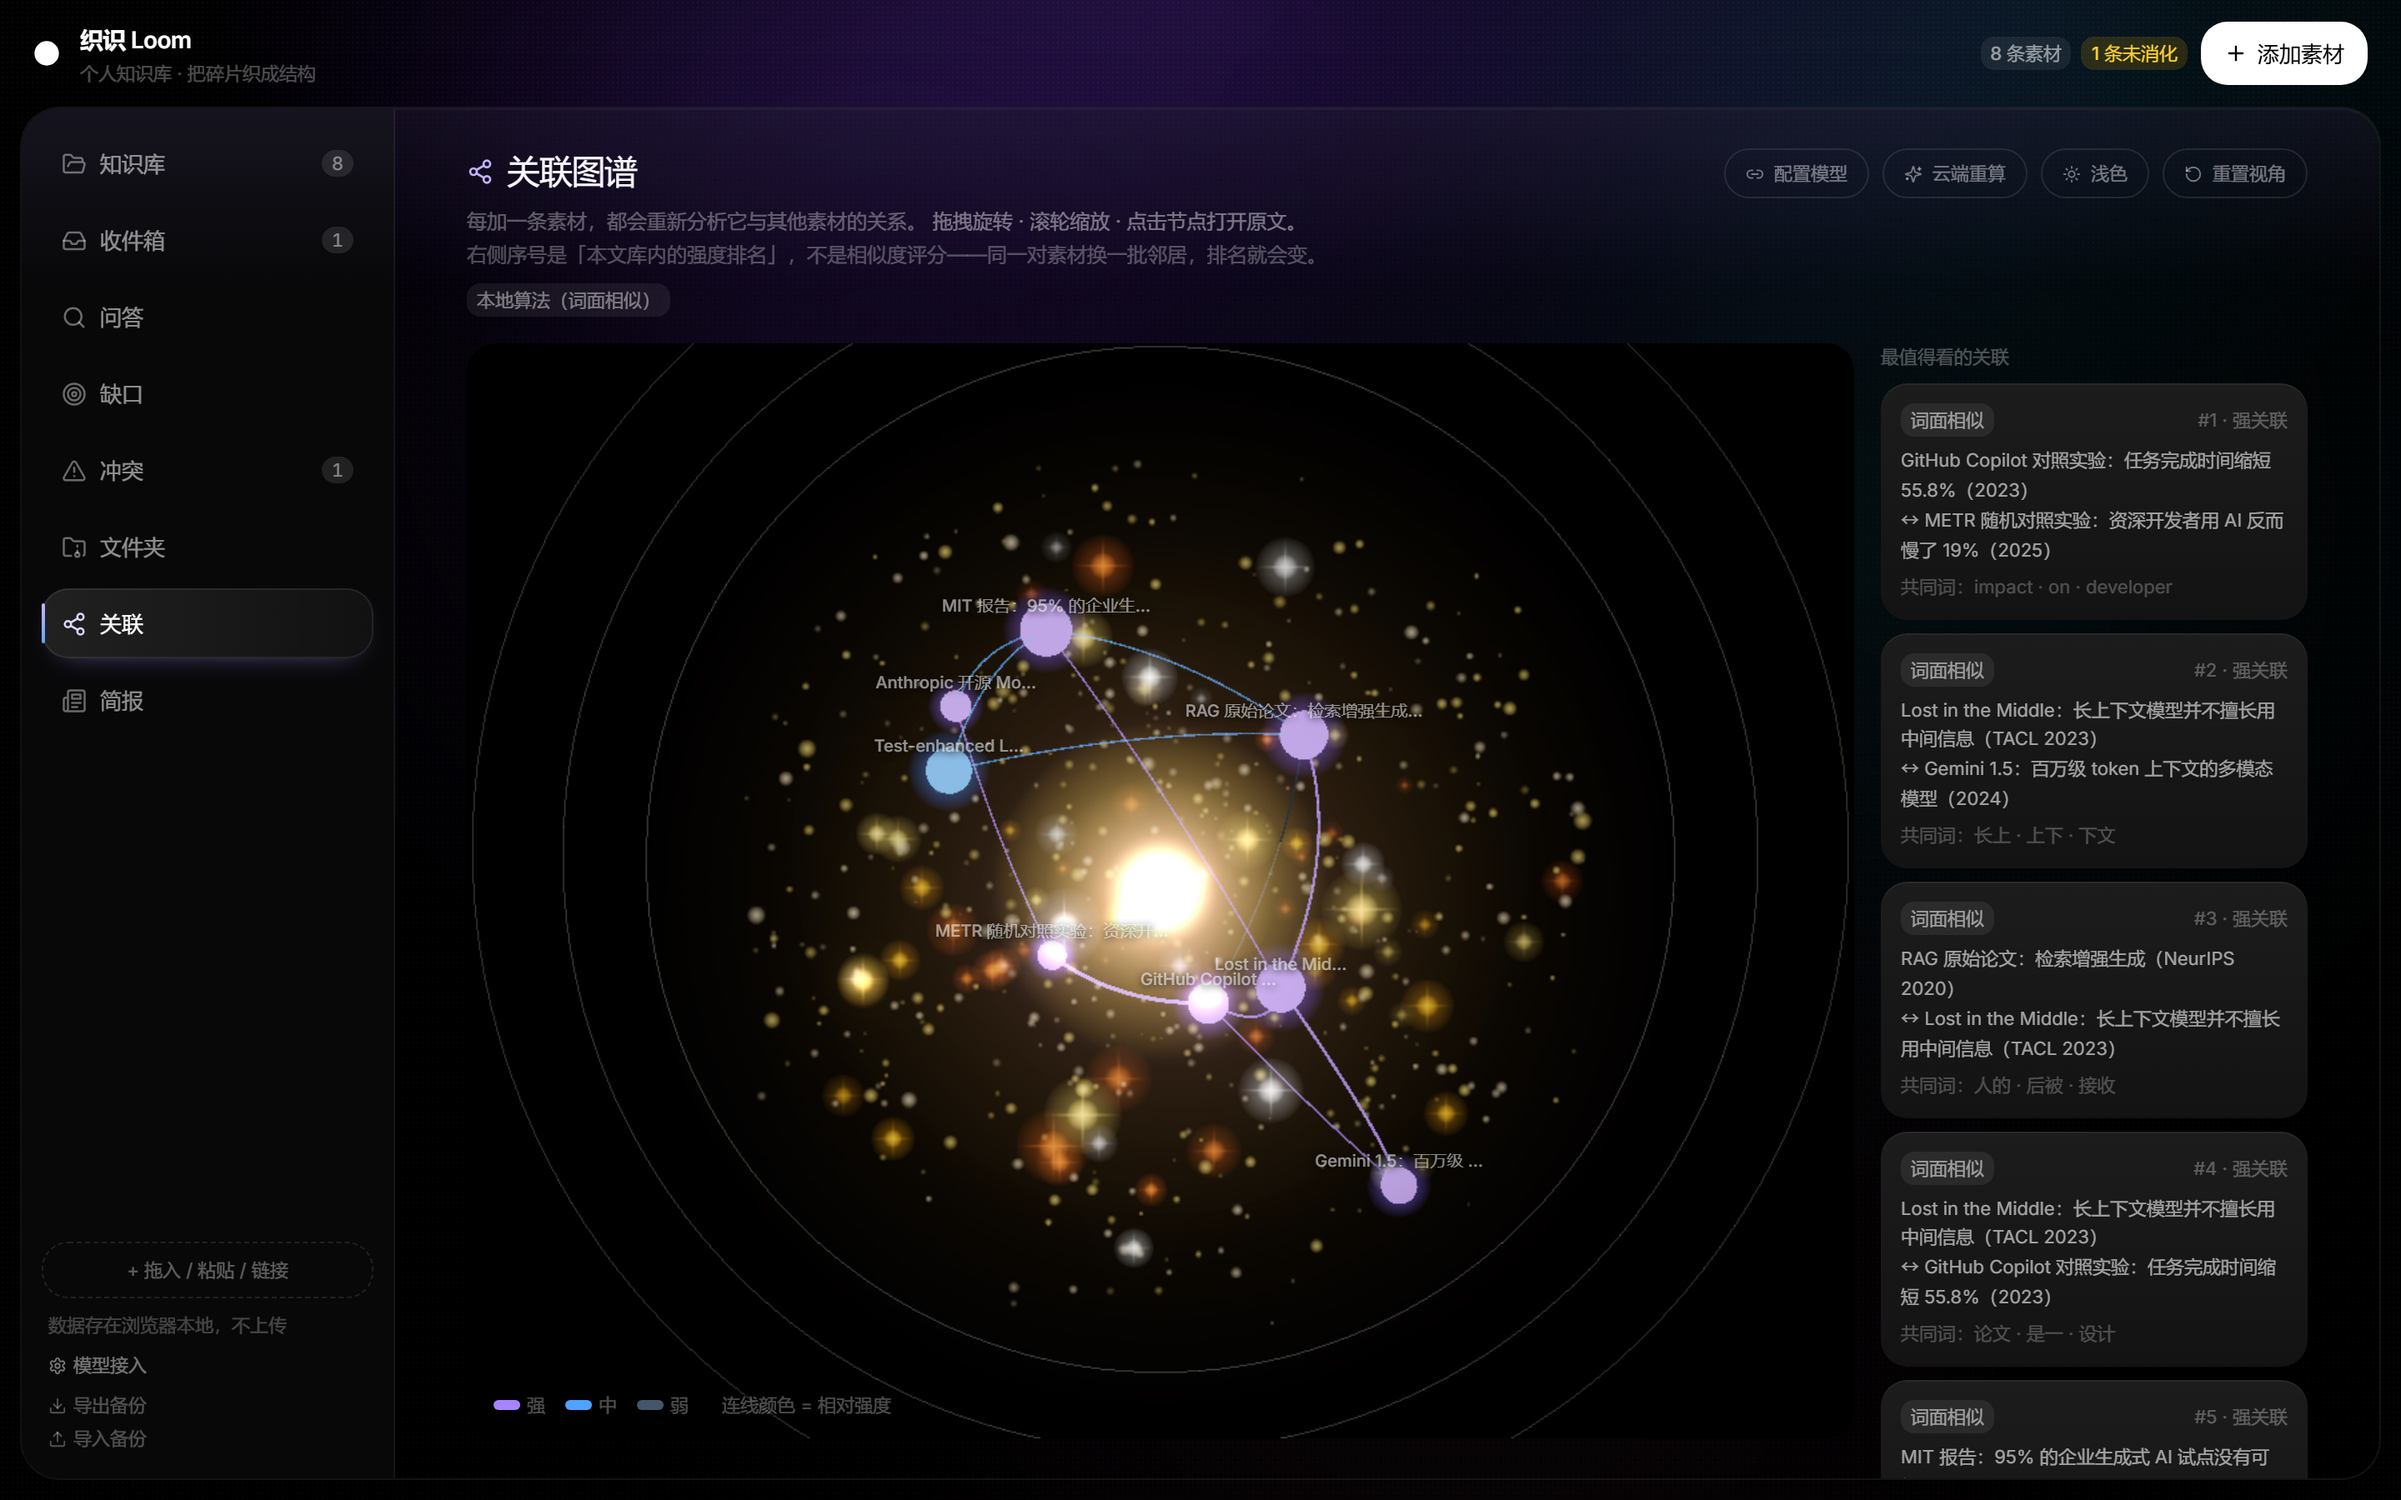
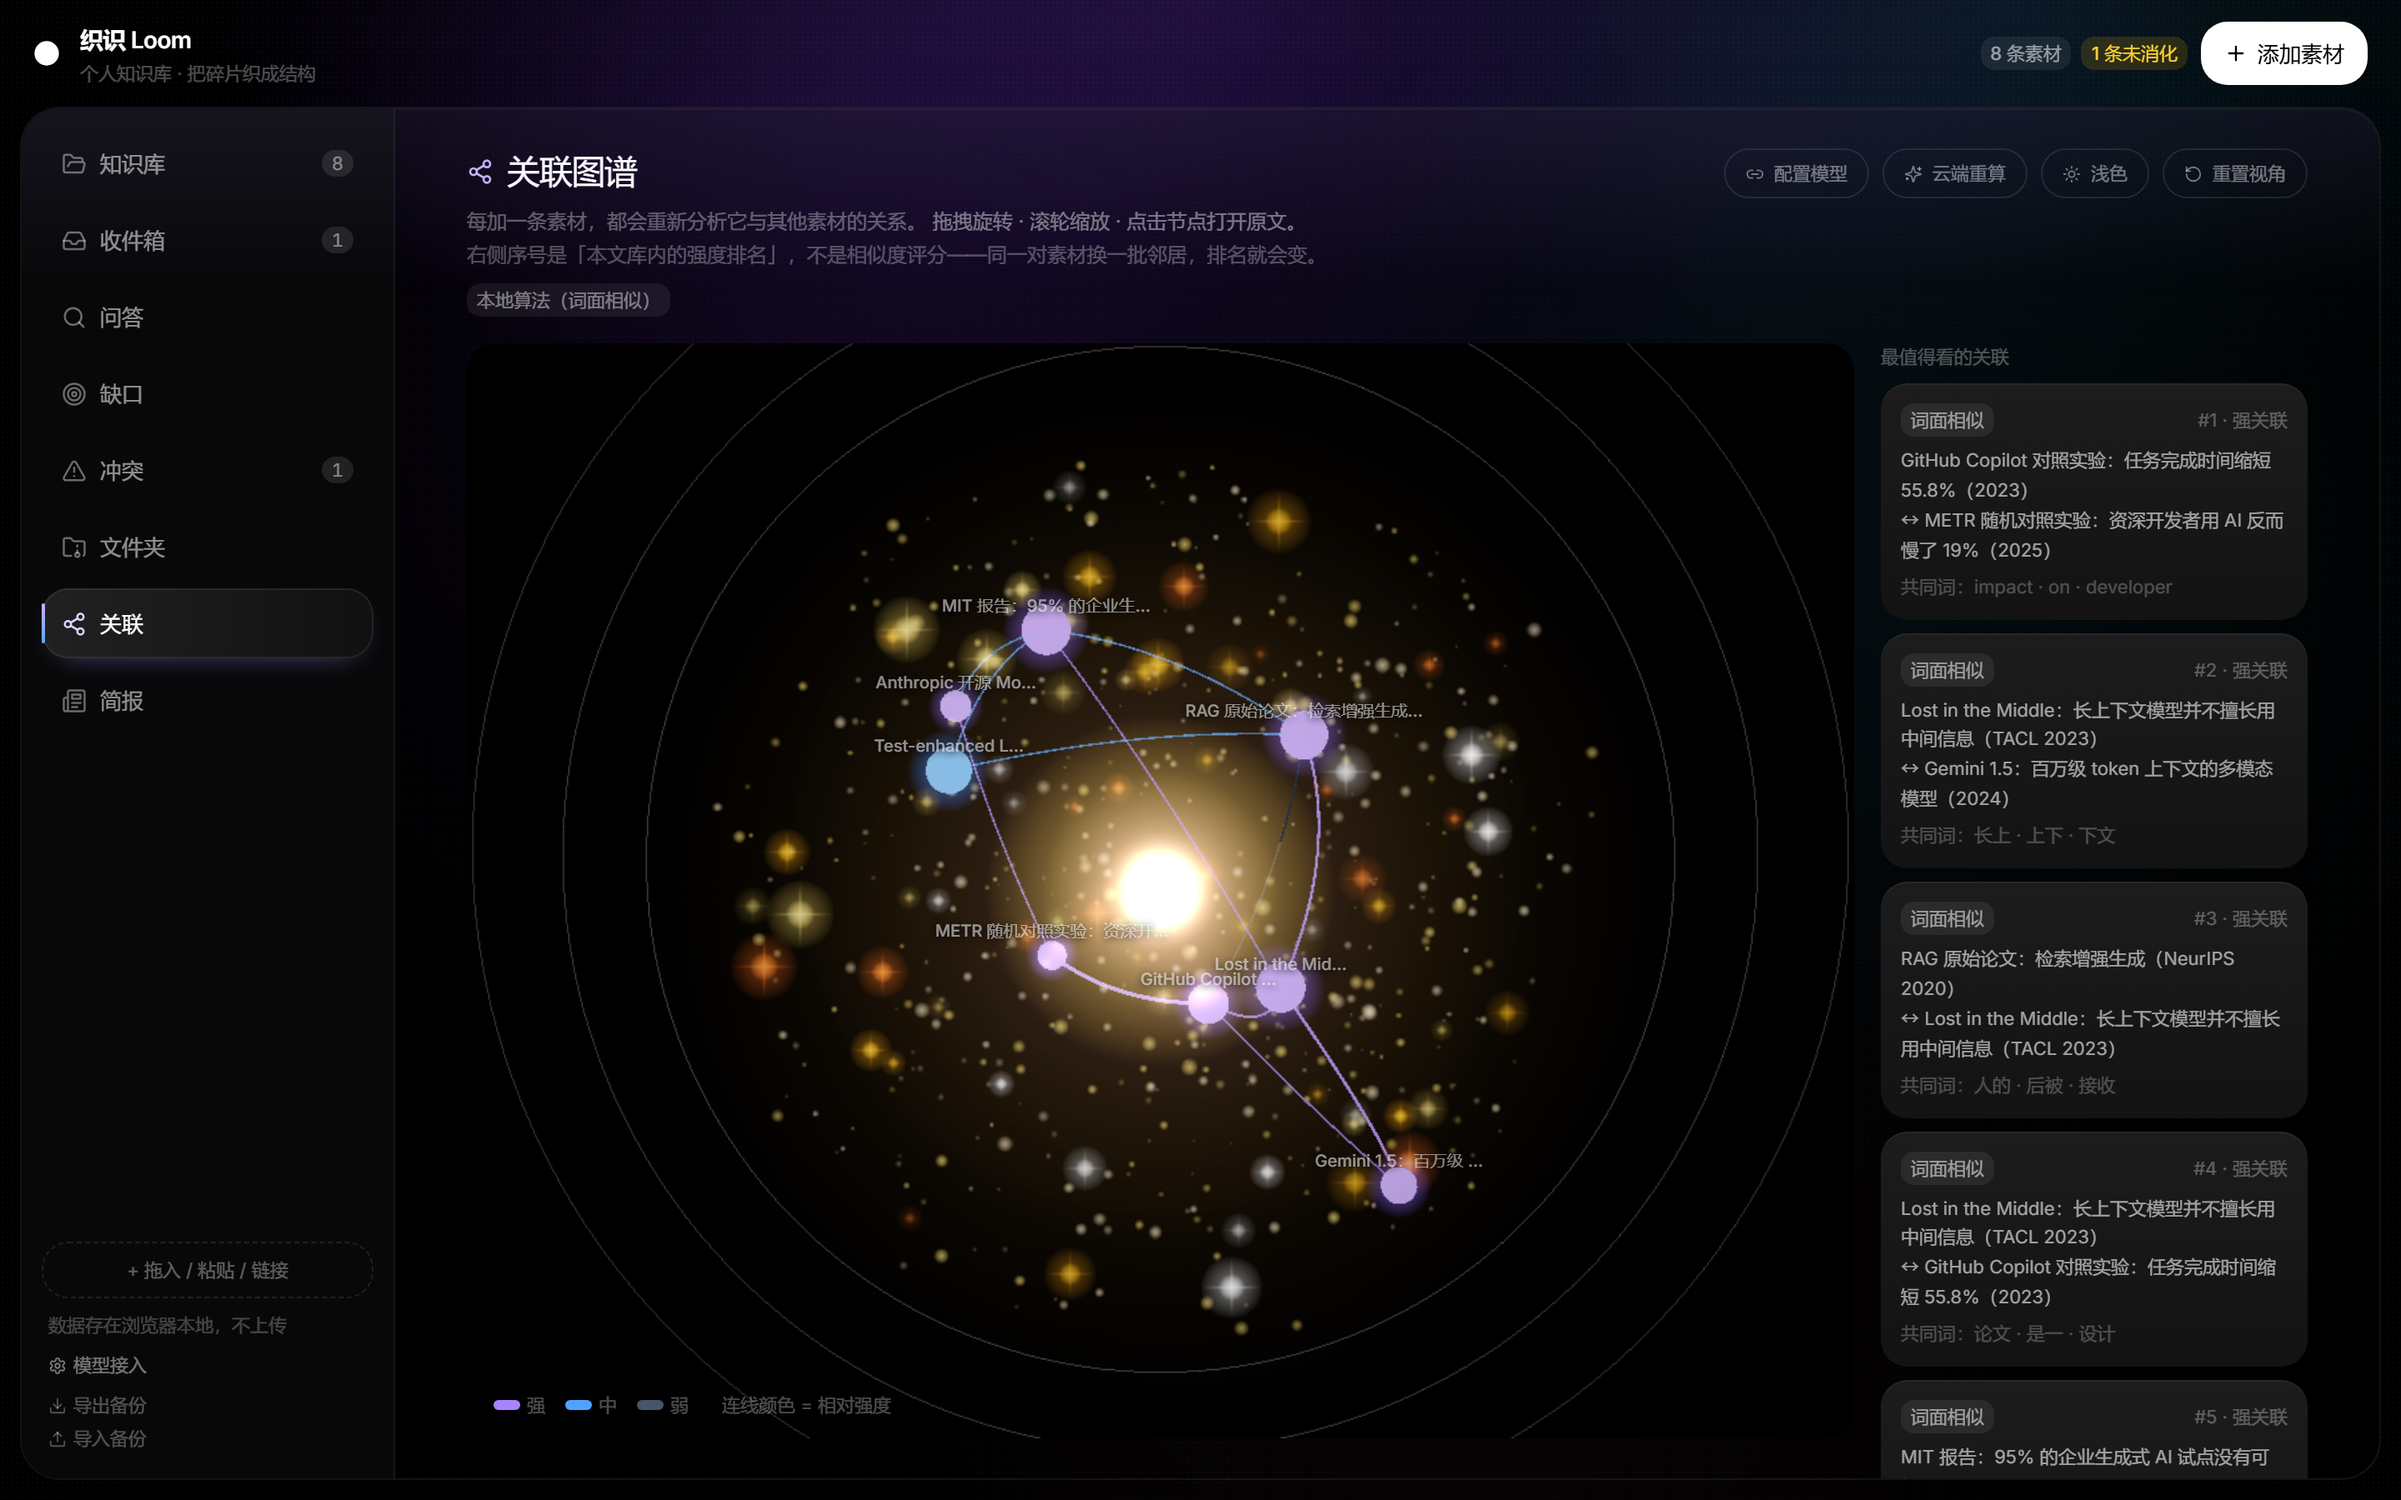
fix: 稀有词命中不再被分数门槛拦截；问答 max_tokens 提到 1600

Changed region(s): [[0.2812, 0.3111, 0.6875, 0.9022], [0.3125, 0.4978, 0.3438, 0.5289]]

diff --git a/lib/kb/answer.ts b/lib/kb/answer.ts
@@ -32,11 +32,10 @@ export function answerQuery(question: string, sources: Source[]): Answer {
     return rareTokens.some((token) => haystack.includes(token));
   };
 
-  // 命中至少 2 个词，或命中一个稀有词；同时分数不低于榜首 45%
+  // 普通命中要过分数门槛；稀有词命中直接放行（专有名词的分值天然偏低）
   const strong = scored.filter(
     (item) =>
-      (item.hits >= 2 || hasRareHit(item.sourceId)) &&
-      item.score >= topScore * 0.45,
+      hasRareHit(item.sourceId) || (item.hits >= 2 && item.score >= topScore * 0.45),
   );
   const base = (strong.length > 0 ? strong : scored.slice(0, 1)).slice(0, 3);
 

diff --git a/app/api/generate/route.ts b/app/api/generate/route.ts
@@ -227,7 +227,7 @@ export async function POST(request: Request) {
       body: JSON.stringify({
         model: resolved.model,
         temperature: 0.2,
-        max_tokens: 800,
+        max_tokens: 1600,
         messages,
       }),
       signal: AbortSignal.timeout(60_000),
